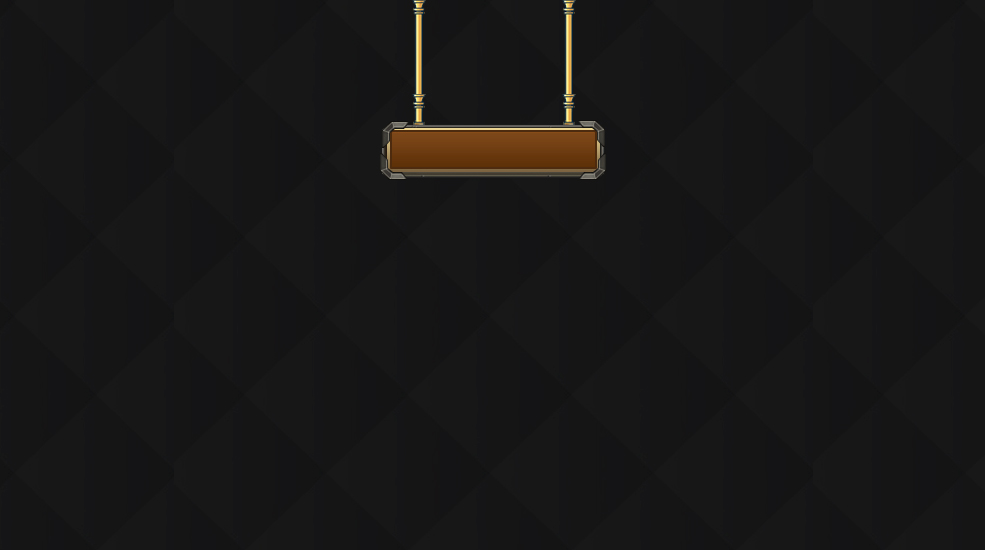
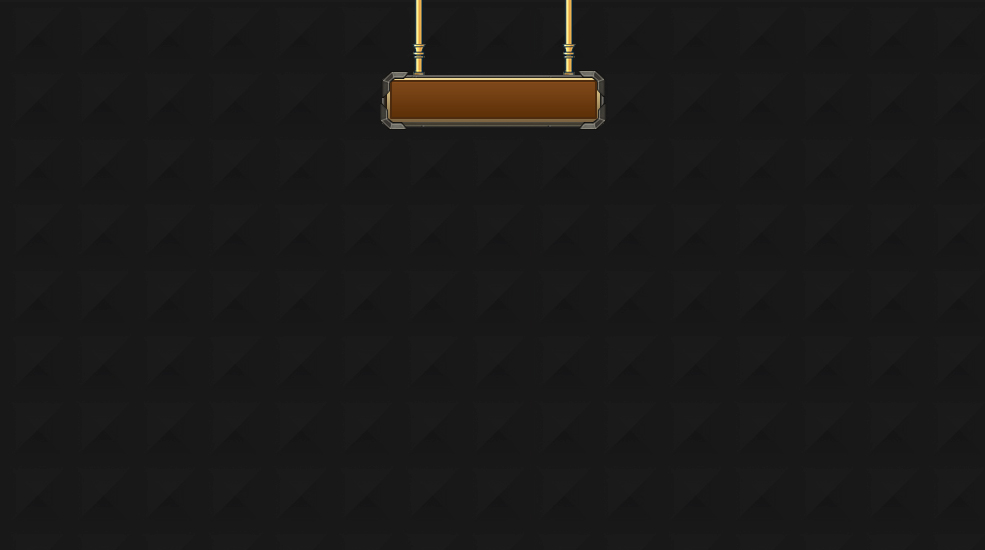
qqgame_big

Changed region(s): [[0.3655, 0.1236, 0.6396, 0.34], [0.5482, 0.0, 0.5787, 0.0309], [0.3959, 0.0, 0.4264, 0.0309]]

diff --git a/skin/game_comic/css/live.css b/skin/game_comic/css/live.css
@@ -119,28 +119,22 @@ a{text-decoration:none; }
 .no-live{width: 985px;height: 550px;overflow:hidden;background: url("/skin/game_comic/images/pic_zhibojian_moren.jpg");position: relative}
 
 /*未开播*/
-.no-live-text{margin: auto; text-align: center; margin-top: 140px; color: #ddb180; }
-.no-live ul{margin: 0 auto;margin-top:50px;width: 380px;height: 190px;}
+.no-live-text{margin: auto; text-align: center; margin-top: 90px; color: #ddb180; }
+.no-live ul{margin: 0 auto;margin-top:100px;width: 460px;height: 190px;}
 
 .no-live{ font-size:12px; color: #fefefe}
 .no-live .text{margin-top: 30px;text-align: center;margin: 0 auto }
-.no-live ul li{float: left;margin-right:20px; }
+.no-live ul li{float: left;  margin-right: 25px;  margin-left: 25px;}
 .no-live ul li a{z-index: 15;position: absolute;  height:150px;width: 102px;}
 .noanchor-kuang{width:102px;  height: 150px;position: relative;overflow: hidden}
-.noanchor-kuang .nocnchor-k{width: 102px;height: 150px;position: absolute;z-index: 11}
-.noanchor-kuang img{ position: absolute;height: 143px; width: 95px; z-index: 8; margin: 5px;  border-radius: 10px;}
+.noanchor-kuang .nocnchor-k{width: 100px;height: 150px;position: absolute;z-index: 11}
+.noanchor-kuang img{ position: absolute;height: 146px; width: 96px; z-index: 8; margin: 2px;  border-radius:5px;}
 
-.noanchor-info{ line-height: 18px;  margin-top: 3px;margin-left: -2px;}
+.noanchor-info{ line-height: 18px;  margin-top: 6px;margin-left: -2px;}
 .noanchor-info .noanchor-level{float: left}
-.noanchor-name {float: left;    float: left;  white-space: nowrap;  width: 72px;  text-overflow: ellipsis;  overflow: hidden;}
-.noanchor-num{float: left;margin-left: 10px;}
-.bk-white{background: url("/static_data/images_css/biankuang_nolive/biankuang_white_SS.png") no-repeat;}
-.bk-blue{background: url("/static_data/images_css/biankuang_nolive/biankuang_blue_SS.png") no-repeat;}
-.bk-yellow{background: url("/static_data/images_css/biankuang_nolive/biankuang_yellow_SS.png") no-repeat;}
-.bk-size{background: url("/static_data/images_css/biankuang_nolive/biankuang_size_SS.png") no-repeat;}
-.bk-orange{background: url("/static_data/images_css/biankuang_nolive/biankuang_orange_SS.png") no-repeat;}
-.bk-black{background: url("/static_data/images_css/biankuang_nolive/biankuang_black_SS.png") no-repeat;}
-
+.noanchor-name {float: left;  white-space: nowrap;  width: 72px;  text-overflow: ellipsis;  overflow: hidden;font-size: 14px;}
+.noanchor-num{float: left;margin-left: 10px;font-size: 12px;  color: #999;}
+.bk-color{    border: 2px solid #ccc;  border-radius: 10px;}
 /*礼物*/
 
 .myDiv1{width: 340px;position:absolute;}
@@ -459,7 +453,7 @@ a{text-decoration:none; }
 .less-butt .less-charge{background-color: #e7a317}
 .less-butt .less-cancel{background-color: #505050}
 /*新礼物*/
-.newGifts{ width: 600px; height: 92px;  position: absolute; - margin-left:-300px; left: 50%;  bottom:28%;}
+.newGifts{ width: 600px; height: 92px;  position: absolute; - margin-left:-300px; left: 50%;  bottom:10%;}
 .draggift{width:600px;height: 50px;position: absolute;top:-40px;cursor:move;}
 .toMarginLeft{width: 940px;height: 92px;position: absolute;left: 0}
 .mainGifts{width:502px;height:92px;position: absolute;right: -10px;}
@@ -733,6 +727,23 @@ a{text-decoration:none; }
         left:78px;
     }
 
+    .no-live-text{margin: auto; text-align: center; margin-top: 90px; color: #ddb180; }
+        .no-live ul{margin: 0 auto;margin-top:106px;width: 560px;height: 190px;}
+
+    .no-live{ font-size:12px; color: #fefefe}
+    .no-live .text{margin-top: 30px;text-align: center;margin: 0 auto }
+    .no-live ul li{float: left;  margin-right: 25px;  margin-left: 25px;}
+    .no-live ul li a{z-index: 15;position: absolute;  height:150px;width: 102px;}
+        .noanchor-kuang{width:128px;  height: 190px;position: relative;overflow: hidden}
+    .noanchor-kuang .nocnchor-k{width: 128px;height: 190px;position: absolute;z-index: 11}
+        .noanchor-kuang img{ position: absolute;    height: 187px;  width: 125px;z-index: 8; margin: 2px;  border-radius:10px;}
+
+    .noanchor-info{ line-height: 18px;  margin-top: 16px;margin-left: -2px;}
+    .noanchor-info .noanchor-level{float: left}
+    .noanchor-name {float: left;  white-space: nowrap;  width: 72px;  text-overflow: ellipsis;  overflow: hidden;font-size: 14px;}
+    .noanchor-num{float: left;margin-left: 10px;font-size: 12px;  color: #999;}
+    .bk-color{    border: 3px solid #ccc;  border-radius: 10px;}
+
 }
 
 @media only screen and (min-width:1950px){
@@ -797,10 +808,10 @@ a{text-decoration:none; }
         height: 415px;
         margin: 58px auto;
         margin-top: -19px;
-        background: url("/skin/game_comic/images/pic_zhibojian_moren_742_415.png");
+        background: url("/skin/game_comic/images/pic_zhibojian_moren_742_415.jpg");
     }
-    .no-live-text{margin-top:104px;}
-    .no-live ul{margin-top:40px;}
+    .no-live-text{margin-top:66px;}
+    .no-live ul{margin-top:60px;}
     #player{
         width:483px;
         height:272px;
@@ -843,11 +854,11 @@ a{text-decoration:none; }
         height: 370px;
         margin: 51px auto;
         margin-top: -26px;
-        background: url("/skin/game_comic/images/pic_zhibojian_moren_660_370.png");
+        background: url("/skin/game_comic/images/pic_zhibojian_moren_660_370.jpg");
     }
 
-    .no-live-text{margin-top:92px;}
-    .no-live ul{margin-top:30px;}
+    .no-live-text{margin-top:58px;}
+    .no-live ul{margin-top:50px;}
     .self-care{margin-top: 18px;}
     #player{
         width:429px;

diff --git a/js/sea-modules/anchor-guard.js b/js/sea-modules/anchor-guard.js
@@ -32,7 +32,7 @@ define(function(require, exports, module) {
 					n++;
 					var _self = $(this);
 					_self[0].grds = _self[0].grds;
-					htm += '<li><div class="guardYou"><div class="gback glv1"><img src="/apis/avatar.php?uid=' + _self[0].userId
+					htm += '<li><div class="guardYou"><div class="gback glv1"><img src="' + _self[0].himage
 							+ '" class="img2"/>\
 		                        <span class="img3">' + _self[0].days
 							+ '<br />\u5929</span>\

diff --git a/js/sea-modules/anchor-live.js b/js/sea-modules/anchor-live.js
@@ -119,7 +119,7 @@ define(function(require, exports, module) {
 			liCt.push('<li>');
 			liCt.push('<a href="{0}"></a>');
 			liCt.push('<div class="noanchor-kuang">');
-			liCt.push('<div class="nocnchor-k bk-white"></div>');
+			liCt.push('<div class="nocnchor-k bk-color"></div>');
 			liCt.push('<img src="{1}" alt="{2}">');
 			liCt.push('</div>');
 			liCt.push('<div class="noanchor-info">');

diff --git a/js/sea-modules/anchor-gift.js b/js/sea-modules/anchor-gift.js
@@ -5,8 +5,7 @@ define(function(require, exports, module) {
 	module.exports = {
 		oWidth : 0,
 		init : function() {
-			$("#sendGiftBtn")
-					.click(
+			$("#sendGiftBtn").click(
 							function() {
 								if (!UIF.handler.login) {
 									UIF.handler.loging();
